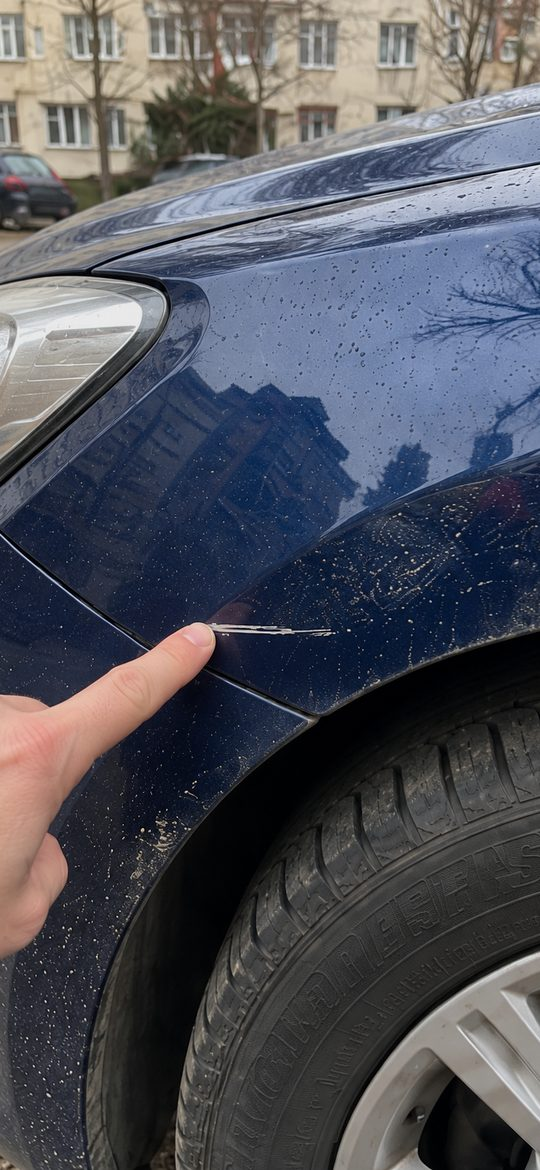
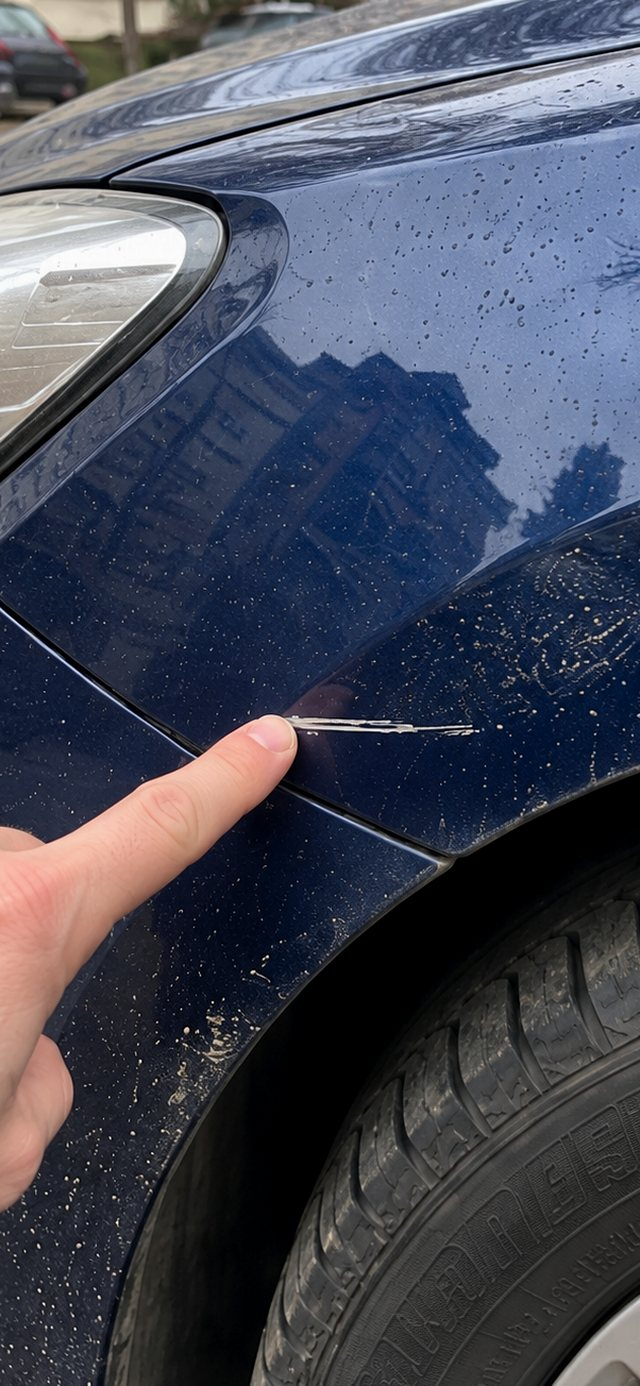
герой: телефон великий, виходить за нижню межу секції; ближчий кроп фото

diff --git a/assets/style.css b/assets/style.css
@@ -1100,10 +1100,13 @@ section > .container > p.price-note, .price-note { max-width: none; text-align: 
   .hero-phone {
     display: block;
     position: absolute;
-    right: clamp(-40px, 1.5vw, 34px);
-    top: 50%;
-    width: clamp(240px, min(23vw, 40vh), 350px);
-    transform: translateY(-50%);
+    right: clamp(-30px, 3vw, 70px);
+    /* Телефон росте знизу й виходить за межу секції — її обріже overflow
+       героя. Так він може бути великим, не розсуваючи блок. */
+    top: auto;
+    bottom: -52px;
+    width: clamp(300px, 31vw, 480px);
+    transform: none;
     pointer-events: none;
     z-index: 2;
   }
@@ -1151,10 +1154,11 @@ section > .container > p.price-note, .price-note { max-width: none; text-align: 
   /* Око повертаємо — воно тло за рукою, тому тихе й велике. */
   .page-home .hero-eye {
     display: block;
-    width: 520px;
-    height: 520px;
-    right: -170px;
-    opacity: .3;
+    width: 560px;
+    height: 560px;
+    right: -210px;
+    top: 40%;
+    opacity: .24;
     z-index: 0;
   }
 
@@ -1165,15 +1169,15 @@ section > .container > p.price-note, .price-note { max-width: none; text-align: 
   }
 
   @keyframes phone-in {
-    from { opacity: 0; transform: translateY(-46%) scale(.97); }
-    to   { opacity: 1; transform: translateY(-50%); }
+    from { opacity: 0; transform: translateY(26px); }
+    to   { opacity: 1; transform: none; }
   }
 }
 
 /* На низьких вікнах телефон не ховаємо, а зменшуємо: саме там більшість
    відвідувачів із ноутбуками, і права частина героя не має бути порожньою. */
 @media (min-width: 1000px) and (max-height: 700px) {
-  .hero-phone { width: clamp(150px, 26vh, 230px); right: clamp(-10px, 1vw, 24px); }
+  .hero-phone { width: clamp(250px, 62vh, 400px); bottom: -40px; }
 }
 
 @media (max-height: 420px) {

diff --git a/sw.js b/sw.js
@@ -4,7 +4,7 @@
 // тягнемо свіжу версію у фоні (stale-while-revalidate), тож оновлення
 // доїжджає до людини не пізніше наступного відкриття сторінки.
 
-const CACHE = 'see-you-v5';
+const CACHE = 'see-you-v6';
 const ASSETS = ['/', '/icon.svg', '/manifest.webmanifest'];
 
 self.addEventListener('install', (event) => {
